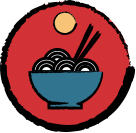
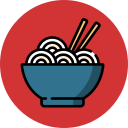
fix: boolean color

diff --git a/README.md b/README.md
@@ -1,11 +1,11 @@
-# 🌸 Funchosa Dark
+# 🍜 Funchosa Dark Theme
 
 A warm dark theme with rose-gold tones, designed for eye comfort and long coding sessions.
 
 ![Preview](https://raw.githubusercontent.com/FunChosa/funchosa-dark-theme/main/assets/screenshots/full-editor.png)
 ## Features
 
-- 🌸 **Warm color palette** — reduced blue light for evening coding
+- 🌼 **Warm color palette** — reduced blue light for evening coding
 - 👁 **Eye comfort** — scientifically balanced contrast (WCAG AA compliant)
 - 🎨 **Bracket colorization** — 6 distinct colors for nested brackets
 - ⚡ **Semantic highlighting** — enhanced TypeScript/JavaScript support
@@ -24,9 +24,9 @@ A warm dark theme with rose-gold tones, designed for eye comfort and long coding
 ## Installation
 
 1. Open **Extensions** in VS Code (`Cmd+Shift+X` / `Ctrl+Shift+X`)
-2. Search for `Funchosa Dark`
+2. Search for `Funchosa Dark Theme`
 3. Click **Install**
-4. Press `Cmd+K Cmd+T` / `Ctrl+K Ctrl+T` and select **Funchosa Dark**
+4. Press `Cmd+K Cmd+T` / `Ctrl+K Ctrl+T` and select **Funchosa Dark Theme**
 
 ## Color Palette
 
@@ -70,6 +70,8 @@ MIT © Funchosa
 
 ---
 
-**Enjoy coding with Funchosa Dark!** 🌸
+Icon by [Freepik - Flaticon](https://www.flaticon.com/free-icons/ramen)
+
+**Enjoy coding with Funchosa Dark Theme!** 
 
 If you like this theme, please ⭐ star the repo!
